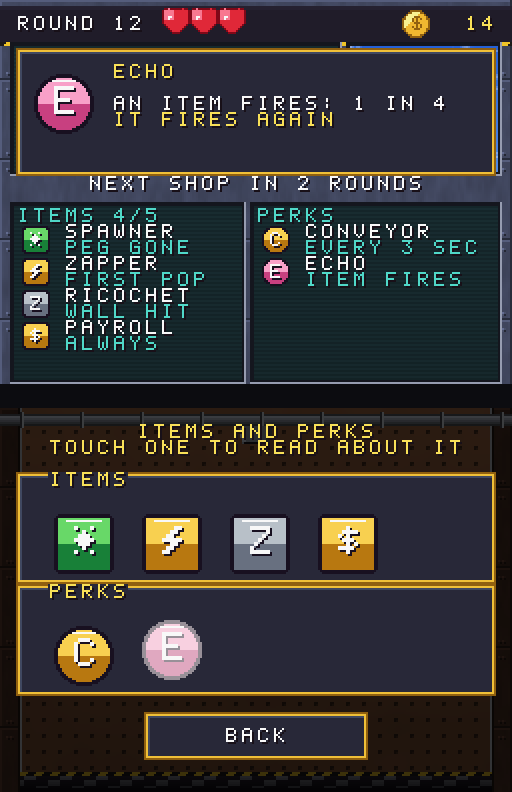
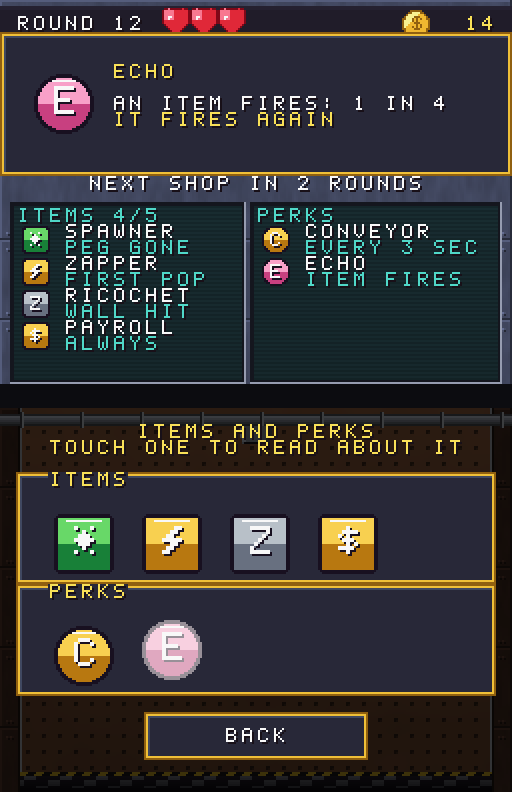
Cover the face window fully behind the top-screen details panel
The panel for shop, perk and item details was 3 pixels short of the
dashboard windows, so a strip of the portrait window's sky and frame
showed along its top and right edges. It now spans the full width from
row 2, covering both windows and their frames.

Changed region(s): [[0.0, 0.0303, 1.0, 0.2424]]

diff --git a/source/main.c b/source/main.c
@@ -341,7 +341,7 @@ static void hud_text(void)
     text_num(TOP, 27, 1, game.coins, 4, TXT_GOLD);
 
     if (detail_kind != DETAIL_NONE) {
-        panel(TOP, 1, 3, 30, 8);
+        panel(TOP, 0, 2, 32, 9);                  // covers the score and face windows, frames and all
         if (detail_kind == DETAIL_ITEM) {
             const ItemInfo *it = &item_info[detail_id];
             text_style(TOP, 7, 4, it->name, TXT_HILITE);
@@ -356,7 +356,7 @@ static void hud_text(void)
             text_style(TOP, 7, 6, pk->line1, TXT_PANEL);
             text_style(TOP, 7, 7, pk->line2, TXT_HILITE);
         }
-        text_center_in(TOP, 1, 30, 9, detail_hint, TXT_PANEL);
+        text_center_in(TOP, 0, 32, 9, detail_hint, TXT_PANEL);
     } else {
         text_style(TOP, 2, 3, "SCORE", TXT_LCD);
         big_number(TOP, 2, 4, game.score, 8);

diff --git a/tools/gen_assets.py b/tools/gen_assets.py
@@ -1440,7 +1440,7 @@ def dashboard(st):
     det = st.get("detail")
     if det:
         kind, name, hint = det
-        sc.panel(1, 3, 30, 8)
+        sc.panel(0, 2, 32, 9)
         if kind == "item":
             it = ITEMS[ITEM_ID[name]]
             sc.text(7, 4, it["name"], HILITE)
@@ -1454,7 +1454,7 @@ def dashboard(st):
             sc.text(7, 6, pk["line1"], PANEL_S)
             sc.text(7, 7, pk["line2"], HILITE)
             sc.spr(16, 36, perk_icon(PERK_ID[name], True), PAL["icon"], 0)
-        sc.center_in(1, 30, 9, hint, PANEL_S)
+        sc.center_in(0, 32, 9, hint, PANEL_S)
     else:
         sc.text(2, 3, "SCORE", LCD_S)
         sc.big_number(2, 4, st["score"], 8)
